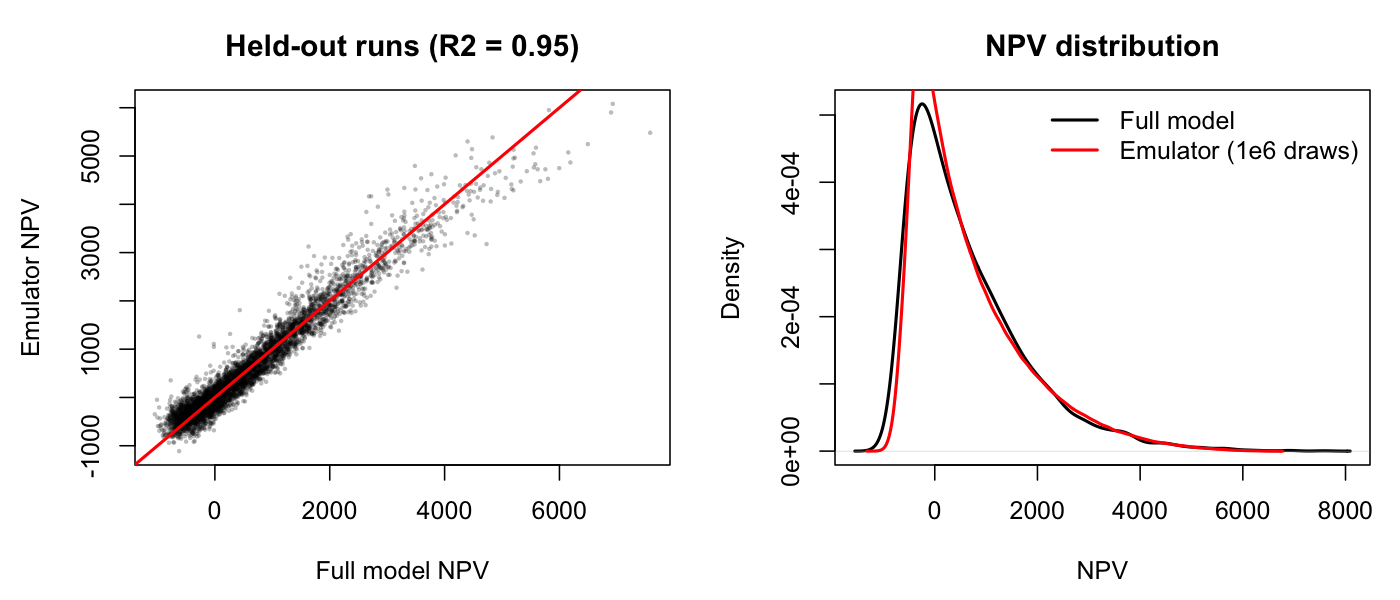
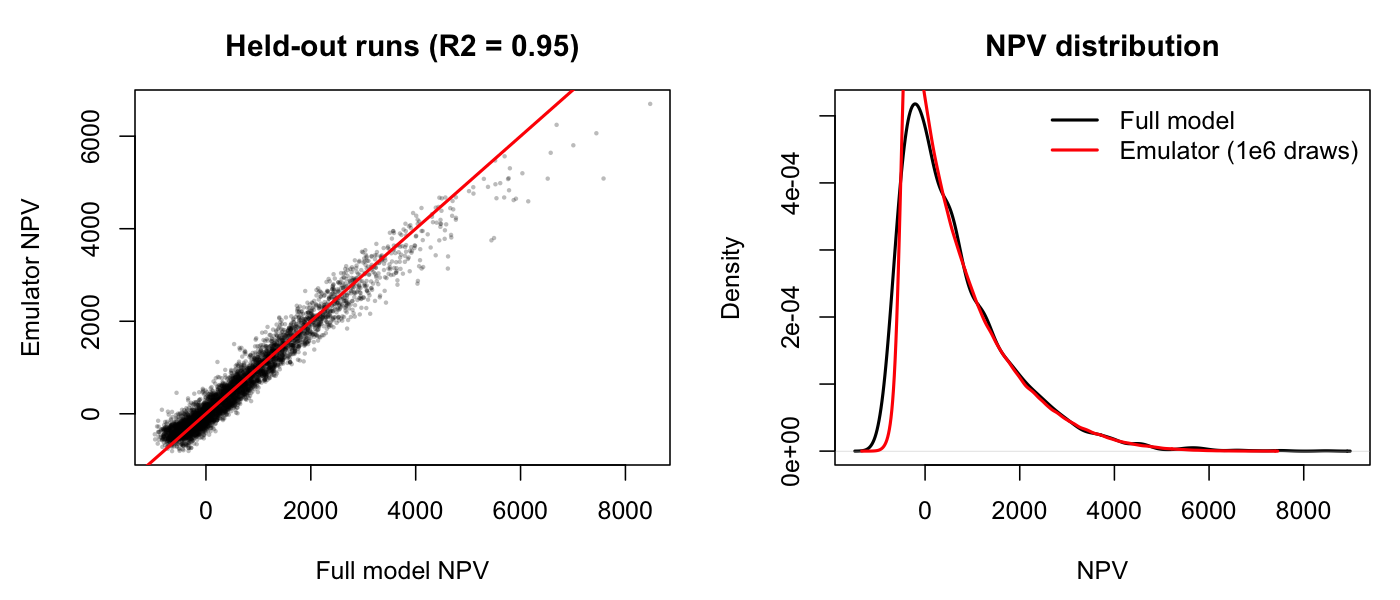
Sobol variance-based screen; check EVPPI against full model

diff --git a/README.md b/README.md
@@ -5,7 +5,7 @@ This repository shows how to replace a slow Monte Carlo decision model with a fa
 ## What it does
 
 1. Runs the full model (84 uncertain inputs) and keeps the output `NPV_garden`, the net present value of a garden at a public school.
-2. Screens the inputs by rank correlation and keeps the 8 that matter most.
+2. Screens the inputs with Sobol total-effect indices (full model, pick-freeze, about 50,000 runs) and keeps the 8 that matter most.
 3. Fits a Gaussian process on 150 model runs.
 4. Tests it on 5,000 runs it has never seen.
 5. Draws 1 million emulated outcomes.
@@ -26,23 +26,22 @@ This repository shows how to replace a slow Monte Carlo decision model with a fa
 
 `evppi.R` uses the emulator to ask what is worth learning before the school decides. NPV_garden is the gain over doing nothing, so the garden is chosen when expected NPV is above zero (here 629, so build it).
 
-| Quantity | Value (seed 42) |
-|---|---|
-| EVPI (perfect knowledge of everything) | 129 per garden |
-| EVPPI `school_event_value` | 97 (75% of EVPI) |
-| EVPPI `if_community_likes` | 18 (14%) |
-| EVPPI `school_event_freq` | 4 (3%) |
-| EVPPI of the other five kept inputs | 0 |
+| Quantity | Emulator | Full model |
+|---|---|---|
+| EVPI (perfect knowledge of everything) | | 125 per garden |
+| EVPPI `school_event_value` | 60 (48% of EVPI) | 68 |
+| EVPPI `if_community_likes` | 32 (26%) | 43 |
+| EVPPI `school_event_freq` | 9 (7%) | 8 |
+| EVPPI of the other five kept inputs | 0 | not run |
 
-Costs are well enough known; what the garden earns from school events and whether the community likes it are what to research first. Results are in `evppi_results.csv` and `figures/evppi.png`.
+Sobol indices (`sobol_indices.csv`) show the same three inputs carry nearly all the variance: total effects 0.63, 0.28 and 0.19, with all other inputs at 0.014 or less. Total effects exceed first-order effects (0.54, 0.19, 0.11), so these inputs interact. Costs are well enough known; what the garden earns from school events and whether the community likes it are what to research first. Results are in `evppi_results.csv`, `evppi_check.csv` and `figures/evppi.png`.
 
-Limits: EVPPI is only computed for the 8 screened inputs, so inputs dropped by the screen count as zero. The nested estimate is not checked against the full model, and it is slightly biased upward by inner-loop sampling.
+Limits: the emulator EVPPI is 10 to 25% below the full-model value for the two largest inputs, and the estimates vary between emulator fits (an earlier fit gave 97 for `school_event_value`), so read them as an order of magnitude and a ranking. Both estimates use 150 outer by 1,000 inner draws and are slightly biased upward by inner-loop sampling. EVPPI was only computed for the 8 screened inputs; the Sobol screen says the rest are negligible.
 
 ## What it is not
 
 - The model here is fast already, so the speed gain is small (about 9 times). The gain grows with slower models, which is where emulators are useful.
 - The emulator is fitted to one output. Each output needs its own fit.
-- Screening by rank correlation can miss inputs that matter only through interactions. A variance-based screen is the next step.
 - Prediction intervals are slightly too narrow (92% instead of 95%).
 
 ## Run it
@@ -57,7 +56,7 @@ source("emulator.R")
 - `emulator.R`: the emulator workflow.
 - `evppi.R`: EVPI and EVPPI with the emulator.
 - `model_school_garden.R`, `functions/`, `data/inputs_school_garden.csv`: copies of the original model and inputs.
-- `figures/emulator_check.png`, `emulator_results.csv`: outputs.
+- `figures/`, `*.csv`: outputs. `evppi.R` takes about 20 minutes because it checks EVPPI against the full model.
 
 ## Citation
 
